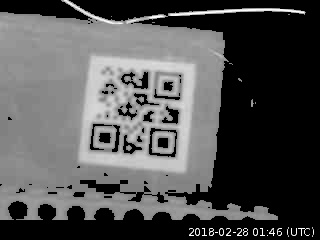
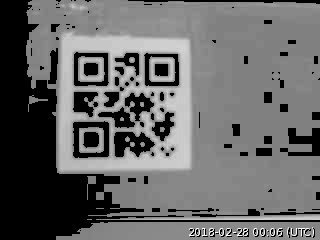
ZbarLight Testing

diff --git a/spam/spam/Image_Test/Scripts/zbar_decoding.py b/spam/spam/Image_Test/Scripts/zbar_decoding.py
@@ -8,7 +8,7 @@ import numpy as np
 import sys, getopt
 
 import Image
-import zbar
+import zbarlight
 
 def main(argv):
 
@@ -19,41 +19,28 @@ def main(argv):
    imgfile = argv[0]
 
    # OpenCV: converting the image to grey_scale and appling THRESH_TOZERO
-   img = cv2.imread(imgfile,cv2.IMREAD_UNCHANGED)
-   # ret,img = cv2.threshold(img,127,255,cv2.THRESH_TOZERO)
-
-   # obtain image data
-   pil = Image.fromarray(img)
-   width, height = pil.size
-   raw = pil.tobytes()
-
-   # wrap image data
-   image = zbar.Image(width, height, 'Y800', raw)
+   img = cv2.imread(imgfile,cv2.IMREAD_GRAYSCALE)
+   ret,img = cv2.threshold(img,127,255,cv2.THRESH_TOZERO)
 
    # scan the image for barcodes
+   codes = zbarlight.scan_codes('qrcode',image)
+   print(codes)
 
-   # TODO <--- this bit here needs work as it is not
-   # outputting anything useful for the scanned images part
-   scanner = zbar.ImageScanner()
-   output = scanner.scan(image)
-   print output
+   display_image(img)
 
-   # extract results
-   #TODO -- this bit may be useless (see above)
-   for symbol in image:
-    # do something useful with results
-        print 'decoded', symbol.type, 'symbol', '"%s"' % symbol.data
+   return "Image scan success"
 
 
-   # displaying the altered image
-   cv2.namedWindow("opencv_image", cv2.WINDOW_NORMAL)
-   cv2.imshow("opencv_image", img)
-   k = cv2.waitKey(0) & 0xFF
-   if k == 27:         # wait for ESC key to exit
-        cv2.destroyAllWindows()
-   elif k == ord('s'): # wait for 's' key to save and exit
-        cv2.imwrite('messigray.png',img)
-        cv2.destroyAllWindows()
+def display_image(img):
+       # displaying the altered image
+       cv2.namedWindow("opencv_image", cv2.WINDOW_NORMAL)
+       cv2.imshow("opencv_image", img)
+       k = cv2.waitKey(0) & 0xFF
+       if k == 27:         # wait for ESC key to exit
+            cv2.destroyAllWindows()
+       elif k == ord('s'): # wait for 's' key to save and exit
+            cv2.imwrite( "../opencv_image.jpg", img)
+            cv2.destroyAllWindows()
 
 
 if __name__ == "__main__":

diff --git a/spam/spam/image_processing.py b/spam/spam/image_processing.py
@@ -23,14 +23,17 @@ def scanImage(image):
    codes = zbarlight.scan_codes('qrcode',image)
    print(codes)
 
-   # displaying the altered image
-   cv2.namedWindow("opencv_image", cv2.WINDOW_NORMAL)
-   cv2.imshow("opencv_image", img)
-   k = cv2.waitKey(0) & 0xFF
-   if k == 27:         # wait for ESC key to exit
-        cv2.destroyAllWindows()
-   elif k == ord('s'): # wait for 's' key to save and exit
-        cv2.imwrite('messigray.png',img)
-        cv2.destroyAllWindows()
+   # display_image(img)
 
    return "Image scan success"
+
+def display_image(img):
+       # displaying the altered image
+       cv2.namedWindow("opencv_image", cv2.WINDOW_NORMAL)
+       cv2.imshow("opencv_image", img)
+       k = cv2.waitKey(0) & 0xFF
+       if k == 27:         # wait for ESC key to exit
+            cv2.destroyAllWindows()
+       elif k == ord('s'): # wait for 's' key to save and exit
+            cv2.imwrite( "../opencv_image.jpg", img)
+            cv2.destroyAllWindows()

diff --git a/spam/spam/Image_Test/Comm_Code/test_sender.py b/spam/spam/Image_Test/Comm_Code/test_sender.py
@@ -1,0 +1,11 @@
+#!/usr/bin/env python3
+
+#This sends an image to the server to be processed by the Flask app
+import paho.mqtt.client as mqtt
+
+broker_aws_host = "18.219.97.244"
+
+client = mqtt.Client()
+client.connect(broker_aws_host,1883,60)
+client.publish("topic/image_processing", "Hello world!");
+client.disconnect()

diff --git a/spam/spam/Image_Test/Scripts/image_decoding.py b/spam/spam/Image_Test/Scripts/image_decoding.py
@@ -15,7 +15,7 @@ def main(argv):
    img = cv2.imread(imgfile,cv2.IMREAD_GRAYSCALE)
 
    ret,img = cv2.threshold(img,127,255,cv2.THRESH_TOZERO)
-   cv2.imwrite( "../opencv_image.jpg", img);
+   cv2.imwrite( "../opencv_image.jpg", img)
 
 if __name__ == "__main__":
    main(sys.argv[1:])

diff --git a/spam/spam/Image_Test/README.md b/spam/spam/Image_Test/README.md
@@ -4,7 +4,7 @@ Working with the Camera: Tips&Tricks
 Install Zbar
 ------------------
 sudo apt-get install libzbar-dev
-pip install zbar
+sudo pip3 install zbarlight
 
 
 Install OpenCV
